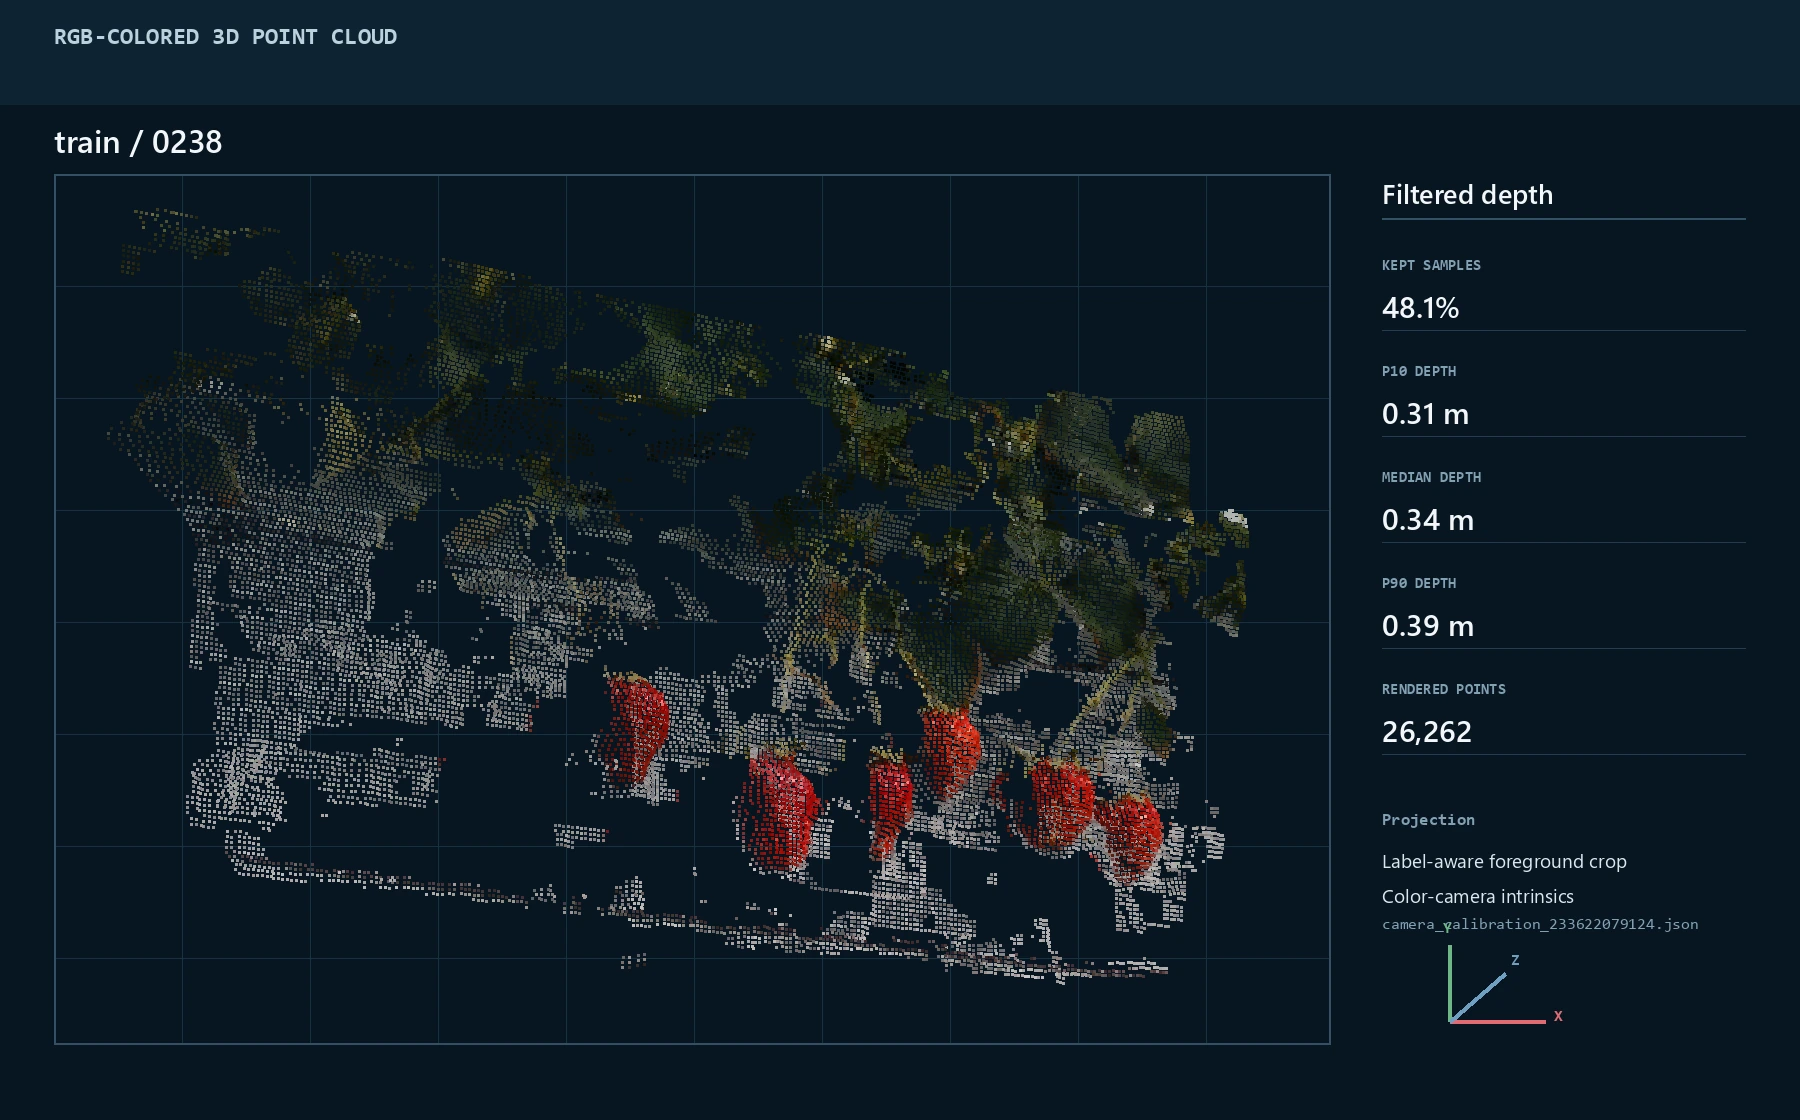
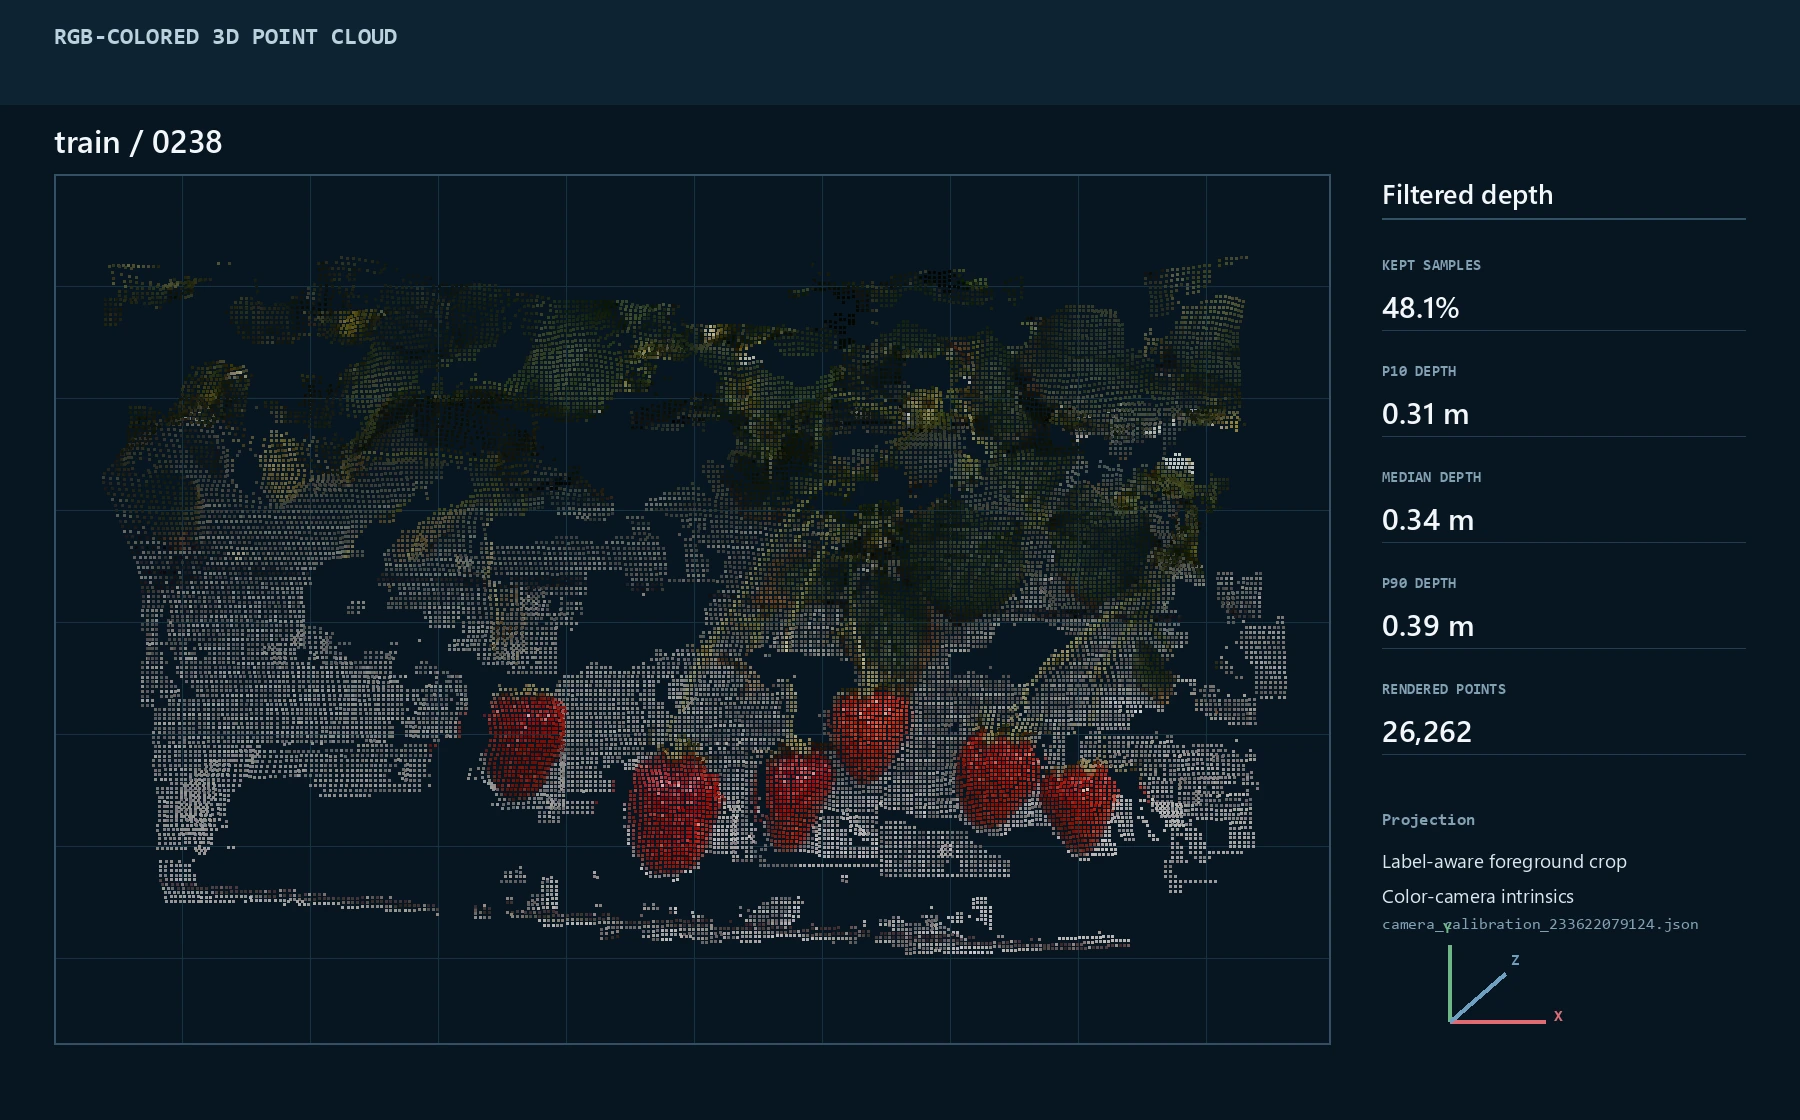
Set point cloud initial view to front

diff --git a/dist/js/scripts.js b/dist/js/scripts.js
@@ -36,8 +36,8 @@
     const resetButton = document.getElementById('pointcloudReset');
     const pointCountLabel = document.getElementById('pointcloudPointCount');
     const state = {
-        yaw: -0.58,
-        pitch: 0.22,
+        yaw: 0,
+        pitch: 0,
         zoom: 2.6,
         panX: 0,
         panY: 0,

diff --git a/src/js/scripts.js b/src/js/scripts.js
@@ -32,8 +32,8 @@
     const resetButton = document.getElementById('pointcloudReset');
     const pointCountLabel = document.getElementById('pointcloudPointCount');
     const state = {
-        yaw: -0.58,
-        pitch: 0.22,
+        yaw: 0,
+        pitch: 0,
         zoom: 2.6,
         panX: 0,
         panY: 0,

diff --git a/scripts/analyze-dataset.py b/scripts/analyze-dataset.py
@@ -640,8 +640,8 @@ def render_pointcloud(
             json.dumps(interactive_payload, separators=(",", ":")),
             encoding="utf-8",
         )
-    yaw = math.radians(-34)
-    pitch = math.radians(14)
+    yaw = math.radians(0)
+    pitch = math.radians(0)
     rotation_y = np.array(
         [[math.cos(yaw), 0, math.sin(yaw)], [0, 1, 0], [-math.sin(yaw), 0, math.cos(yaw)]],
         dtype=np.float32,
